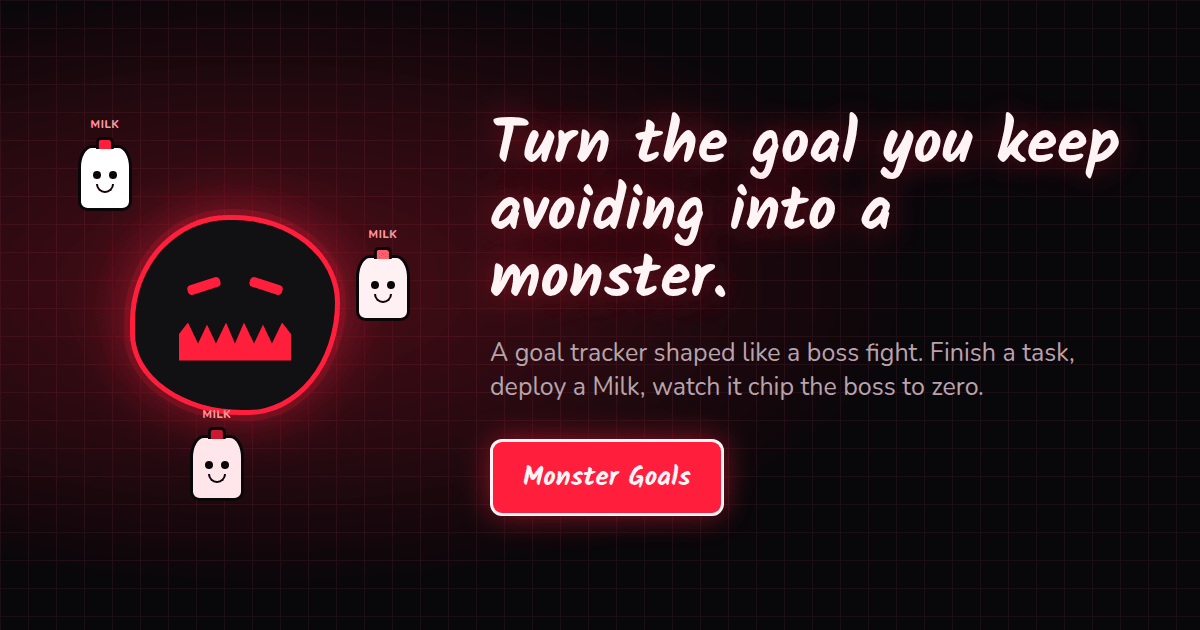
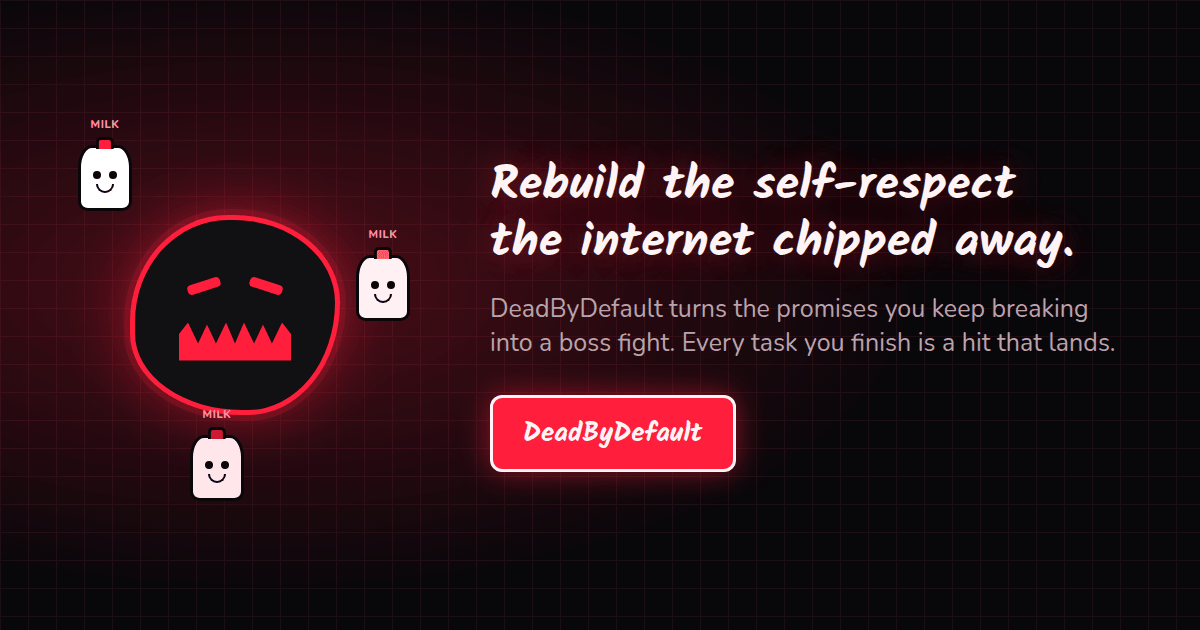
Rebrand to DeadByDefault, reposition around self-respect
Renamed the product from "Monster Goals" to "DeadByDefault" everywhere a
user sees it — page title, meta/OG/Twitter tags, the wordmark on the auth
screen and landing page, README and app.md headers, package.json and
metadata.json — and re-cut the marketing copy around the actual pitch:
years of feeds built to keep you scrolling defaulted people into flaking
on themselves, and this is where that gets overwritten.

- Landing hero, subhead, the three "how it works" beats, the demo caption,
  the pricing blurb and the footer line are all rewritten. The anti-corporate
  footer line stays untouched — it already fit.
- "Summon Monster" -> "Start the Fight" on the Create Goal screen, updated
  in both the component and the test that asserts on its label.
- The victory banner keeps its tested copy verbatim and adds one line:
  "That's proof, not luck."
- Regenerated public/og.png with the new headline and DeadByDefault
  wordmark, compressed back down with sharp (90 KB).
- Internal identifiers were left alone on purpose — the MonsterGoals/
  component folder, the monster/ lib directory, function and prop names,
  localStorage key prefixes. Renaming those is a mechanical, high-risk
  diff with no user-facing payoff; nothing outside this commit references
  the old product name anymore.

Typecheck and all 77 tests pass (one test asserted on the old button
label and was updated to match).

Claude-Session: https://claude.ai/code/session_014cczRUBmgncLcjn7P88USc

Changed region(s): [[0.4008, 0.181, 0.9558, 0.573], [0.4008, 0.6032, 0.8325, 0.8444]]

diff --git a/components/Landing.tsx b/components/Landing.tsx
@@ -18,16 +18,16 @@ const DEMO_H = 380;
 
 const BEATS: { title: string; body: string }[] = [
   {
-    title: 'Name your monster',
-    body: 'The goal you have been avoiding becomes a monster with a name. Somehow that helps.',
+    title: 'Name the thing you keep avoiding',
+    body: 'It becomes a monster with a name. Somehow that makes it harder to keep pretending it is not there.',
   },
   {
-    title: 'Break it into mini-bosses',
+    title: 'Break it into bosses',
     body: 'Each sub-goal is a boss with 100 HP, chained between you and the thing you actually want.',
   },
   {
-    title: 'Send in the Milk',
-    body: 'Every task you finish deploys a Milk unit into orbit, where it fires on the boss forever.',
+    title: 'Deploy proof, not promises',
+    body: 'Every task you finish sends a Milk unit into orbit, where it fires on the boss forever. That is a receipt, not a vibe.',
   },
 ];
 
@@ -107,6 +107,17 @@ export const Landing: React.FC<{ onStart: () => void; onSignIn: () => void }> = 
         >
           <HeroFace />
         </div>
+        <span
+          style={{
+            fontFamily: DISPLAY_FONT,
+            fontWeight: 700,
+            fontSize: 13,
+            letterSpacing: '2px',
+            color: COLORS.metaText,
+          }}
+        >
+          DEADBYDEFAULT
+        </span>
         <h1
           className="mg-hero-title"
           style={{
@@ -116,11 +127,13 @@ export const Landing: React.FC<{ onStart: () => void; onSignIn: () => void }> = 
             textShadow: '0 0 26px rgba(255, 31, 61, 0.45)',
           }}
         >
-          Turn the goal you keep avoiding into a monster.
+          Built different isn't a personality. It's a default you have to overwrite.
         </h1>
         <p style={{ color: COLORS.mutedText, fontSize: 16, margin: 0, maxWidth: 560 }}>
-          Monster Goals is a goal tracker shaped like a boss fight. Break the thing down, check tasks off,
-          and watch your little army chip it to zero.
+          Years of feeds built to keep you scrolling trained you to flake on yourself by default.
+          DeadByDefault is a goal tracker shaped like a boss fight — name the thing, break it down, and
+          every task you finish is proof stacking up against the version of you the internet talked you
+          into.
         </p>
         <button onClick={start} style={primaryButton}>
           Start free trial
@@ -172,7 +185,7 @@ export const Landing: React.FC<{ onStart: () => void; onSignIn: () => void }> = 
             textAlign: 'center',
           }}
         >
-          Three finished tasks, three Milk units, one boss having a bad day.
+          Three finished tasks, three units of proof, one boss having a bad day.
         </div>
       </div>
 
@@ -203,7 +216,8 @@ export const Landing: React.FC<{ onStart: () => void; onSignIn: () => void }> = 
         <div style={{ fontSize: 13, color: COLORS.mutedText, marginTop: 4, marginBottom: 14 }}>
           Try it for three days without paying. We take a card up front so it keeps working when the
           trial ends — cancel before then and you are not charged, and cancelling later takes two
-          clicks. Unlimited mini-bosses and tasks, synced across your devices.
+          clicks. Unlimited bosses and tasks, synced across your devices, still nagging you back toward
+          the person you already know you can be.
         </div>
         <button onClick={start} style={primaryButton}>
           Start your fight
@@ -211,7 +225,7 @@ export const Landing: React.FC<{ onStart: () => void; onSignIn: () => void }> = 
       </div>
 
       <div style={{ textAlign: 'center', fontSize: 12, color: COLORS.metaText }}>
-        Built for people whose to-do lists have stopped working on them.
+        Years of the internet trained you to flake on yourself by default. This is where you stop.
       </div>
       <div style={{ textAlign: 'center', fontSize: 12, color: COLORS.metaText }}>
         If your dream is working at Amazon, Google, Microsoft, or OpenAI for the money — go fuck yourself, and GTFO.

diff --git a/index.html b/index.html
@@ -5,31 +5,31 @@
     <meta name="viewport" content="width=device-width, initial-scale=1.0" />
     <meta name="theme-color" content="#08070a" />
 
-    <title>Monster Goals — turn the goal you keep avoiding into a boss fight</title>
+    <title>DeadByDefault — rebuild the self-respect the internet chipped away</title>
     <meta
       name="description"
-      content="A goal tracker shaped like a boss fight. Name your goal, break it into mini-bosses, and deploy Milk units by finishing tasks until every boss falls."
+      content="DeadByDefault is where you fight back the version of you that the internet defaulted you into. Name the goal, break it into bosses, and deploy proof every time you keep a promise to yourself."
     />
 
     <!-- Link previews (Reddit, Twitter, Slack, iMessage). VITE_APP_URL must be
          set at build time or these resolve to a relative path some scrapers
          will not follow. -->
     <meta property="og:type" content="website" />
-    <meta property="og:site_name" content="Monster Goals" />
-    <meta property="og:title" content="Turn the goal you keep avoiding into a monster." />
+    <meta property="og:site_name" content="DeadByDefault" />
+    <meta property="og:title" content="Rebuild the self-respect the internet chipped away." />
     <meta
       property="og:description"
-      content="Break your goal into mini-bosses. Every task you finish deploys a Milk unit that fires on the boss until it drops."
+      content="DeadByDefault turns the promises you keep breaking into a boss fight. Every task you finish is a hit that lands."
     />
     <meta property="og:url" content="%VITE_APP_URL%/" />
     <meta property="og:image" content="%VITE_APP_URL%/og.png" />
     <meta property="og:image:width" content="1200" />
     <meta property="og:image:height" content="630" />
     <meta name="twitter:card" content="summary_large_image" />
-    <meta name="twitter:title" content="Turn the goal you keep avoiding into a monster." />
+    <meta name="twitter:title" content="Rebuild the self-respect the internet chipped away." />
     <meta
       name="twitter:description"
-      content="Break your goal into mini-bosses. Every task you finish deploys a Milk unit that fires on the boss until it drops."
+      content="DeadByDefault turns the promises you keep breaking into a boss fight. Every task you finish is a hit that lands."
     />
     <meta name="twitter:image" content="%VITE_APP_URL%/og.png" />
 

diff --git a/components/AuthScreen.tsx b/components/AuthScreen.tsx
@@ -133,9 +133,9 @@ export const AuthScreen: React.FC<{ onBack?: () => void }> = ({ onBack }) => {
           <HeroFace />
         </div>
 
-        <div style={{ fontFamily: DISPLAY_FONT, fontWeight: 700, fontSize: 24 }}>Monster Goals</div>
+        <div style={{ fontFamily: DISPLAY_FONT, fontWeight: 700, fontSize: 24 }}>DeadByDefault</div>
         <div style={{ color: COLORS.mutedText, fontSize: 14, marginTop: -12 }}>
-          {mode === 'login' ? 'Sign in to return to the fight.' : 'Create an account to summon your first monster.'}
+          {mode === 'login' ? 'Sign in to get back to the fight.' : 'Create an account and name the thing you have been avoiding.'}
         </div>
 
         <input

diff --git a/components/MonsterGoals/MonsterGoalsApp.test.tsx b/components/MonsterGoals/MonsterGoalsApp.test.tsx
@@ -39,7 +39,7 @@ async function mountApp() {
 
 function summonGoal(name = 'Learn Spanish') {
   fireEvent.change(screen.getByPlaceholderText('Goal, e.g. Learn Spanish'), { target: { value: name } });
-  fireEvent.click(screen.getByRole('button', { name: 'Summon Monster' }));
+  fireEvent.click(screen.getByRole('button', { name: 'Start the Fight' }));
 }
 
 function addSubBoss(text = 'Finish unit one') {

diff --git a/components/MonsterGoals/MonsterGoalsApp.tsx b/components/MonsterGoals/MonsterGoalsApp.tsx
@@ -344,7 +344,7 @@ export const MonsterGoalsApp: React.FC = () => {
                   fontSize: 16,
                 }}
               >
-                {goal.monsterName} has been fully defeated! Goal complete.
+                {goal.monsterName} has been fully defeated! Goal complete. That's proof, not luck.
               </div>
             )}
           </div>

diff --git a/components/ErrorBoundary.tsx b/components/ErrorBoundary.tsx
@@ -18,7 +18,7 @@ export class ErrorBoundary extends React.Component<{ children: React.ReactNode }
   }
 
   componentDidCatch(error: Error) {
-    console.error('Monster Goals crashed:', error);
+    console.error('DeadByDefault crashed:', error);
   }
 
   render() {

diff --git a/components/MonsterGoals/CreateGoalScreen.tsx b/components/MonsterGoals/CreateGoalScreen.tsx
@@ -76,7 +76,7 @@ export const CreateGoalScreen: React.FC<{ onCreate: (name: string) => void }> = 
           cursor: 'pointer',
         }}
       >
-        Summon Monster
+        Start the Fight
       </button>
     </form>
   );

diff --git a/README.md b/README.md
@@ -1,6 +1,7 @@
-# Monster Goals
+# DeadByDefault
 
-A goal-tracking app reframed as a boss fight. Name one big goal (the "monster"), break it into
+A platform for rebuilding the self-respect years of internet defaulted out of you, reframed as a
+boss fight so it is actually fun to show up for. Name one big goal (the "monster"), break it into
 mini-bosses (sub-goals), and add tasks under the active mini-boss. Checking off a task deploys a
 "Milk" unit into orbit around the active boss, where it fires pellets forever. Each completed task
 takes 12 HP off the boss. At 0 HP the boss plays a defeat animation, drops into a faded graveyard

diff --git a/app.md b/app.md
@@ -1,4 +1,4 @@
-# Monster Goals — functionality
+# DeadByDefault — functionality
 
 ## Access
 
